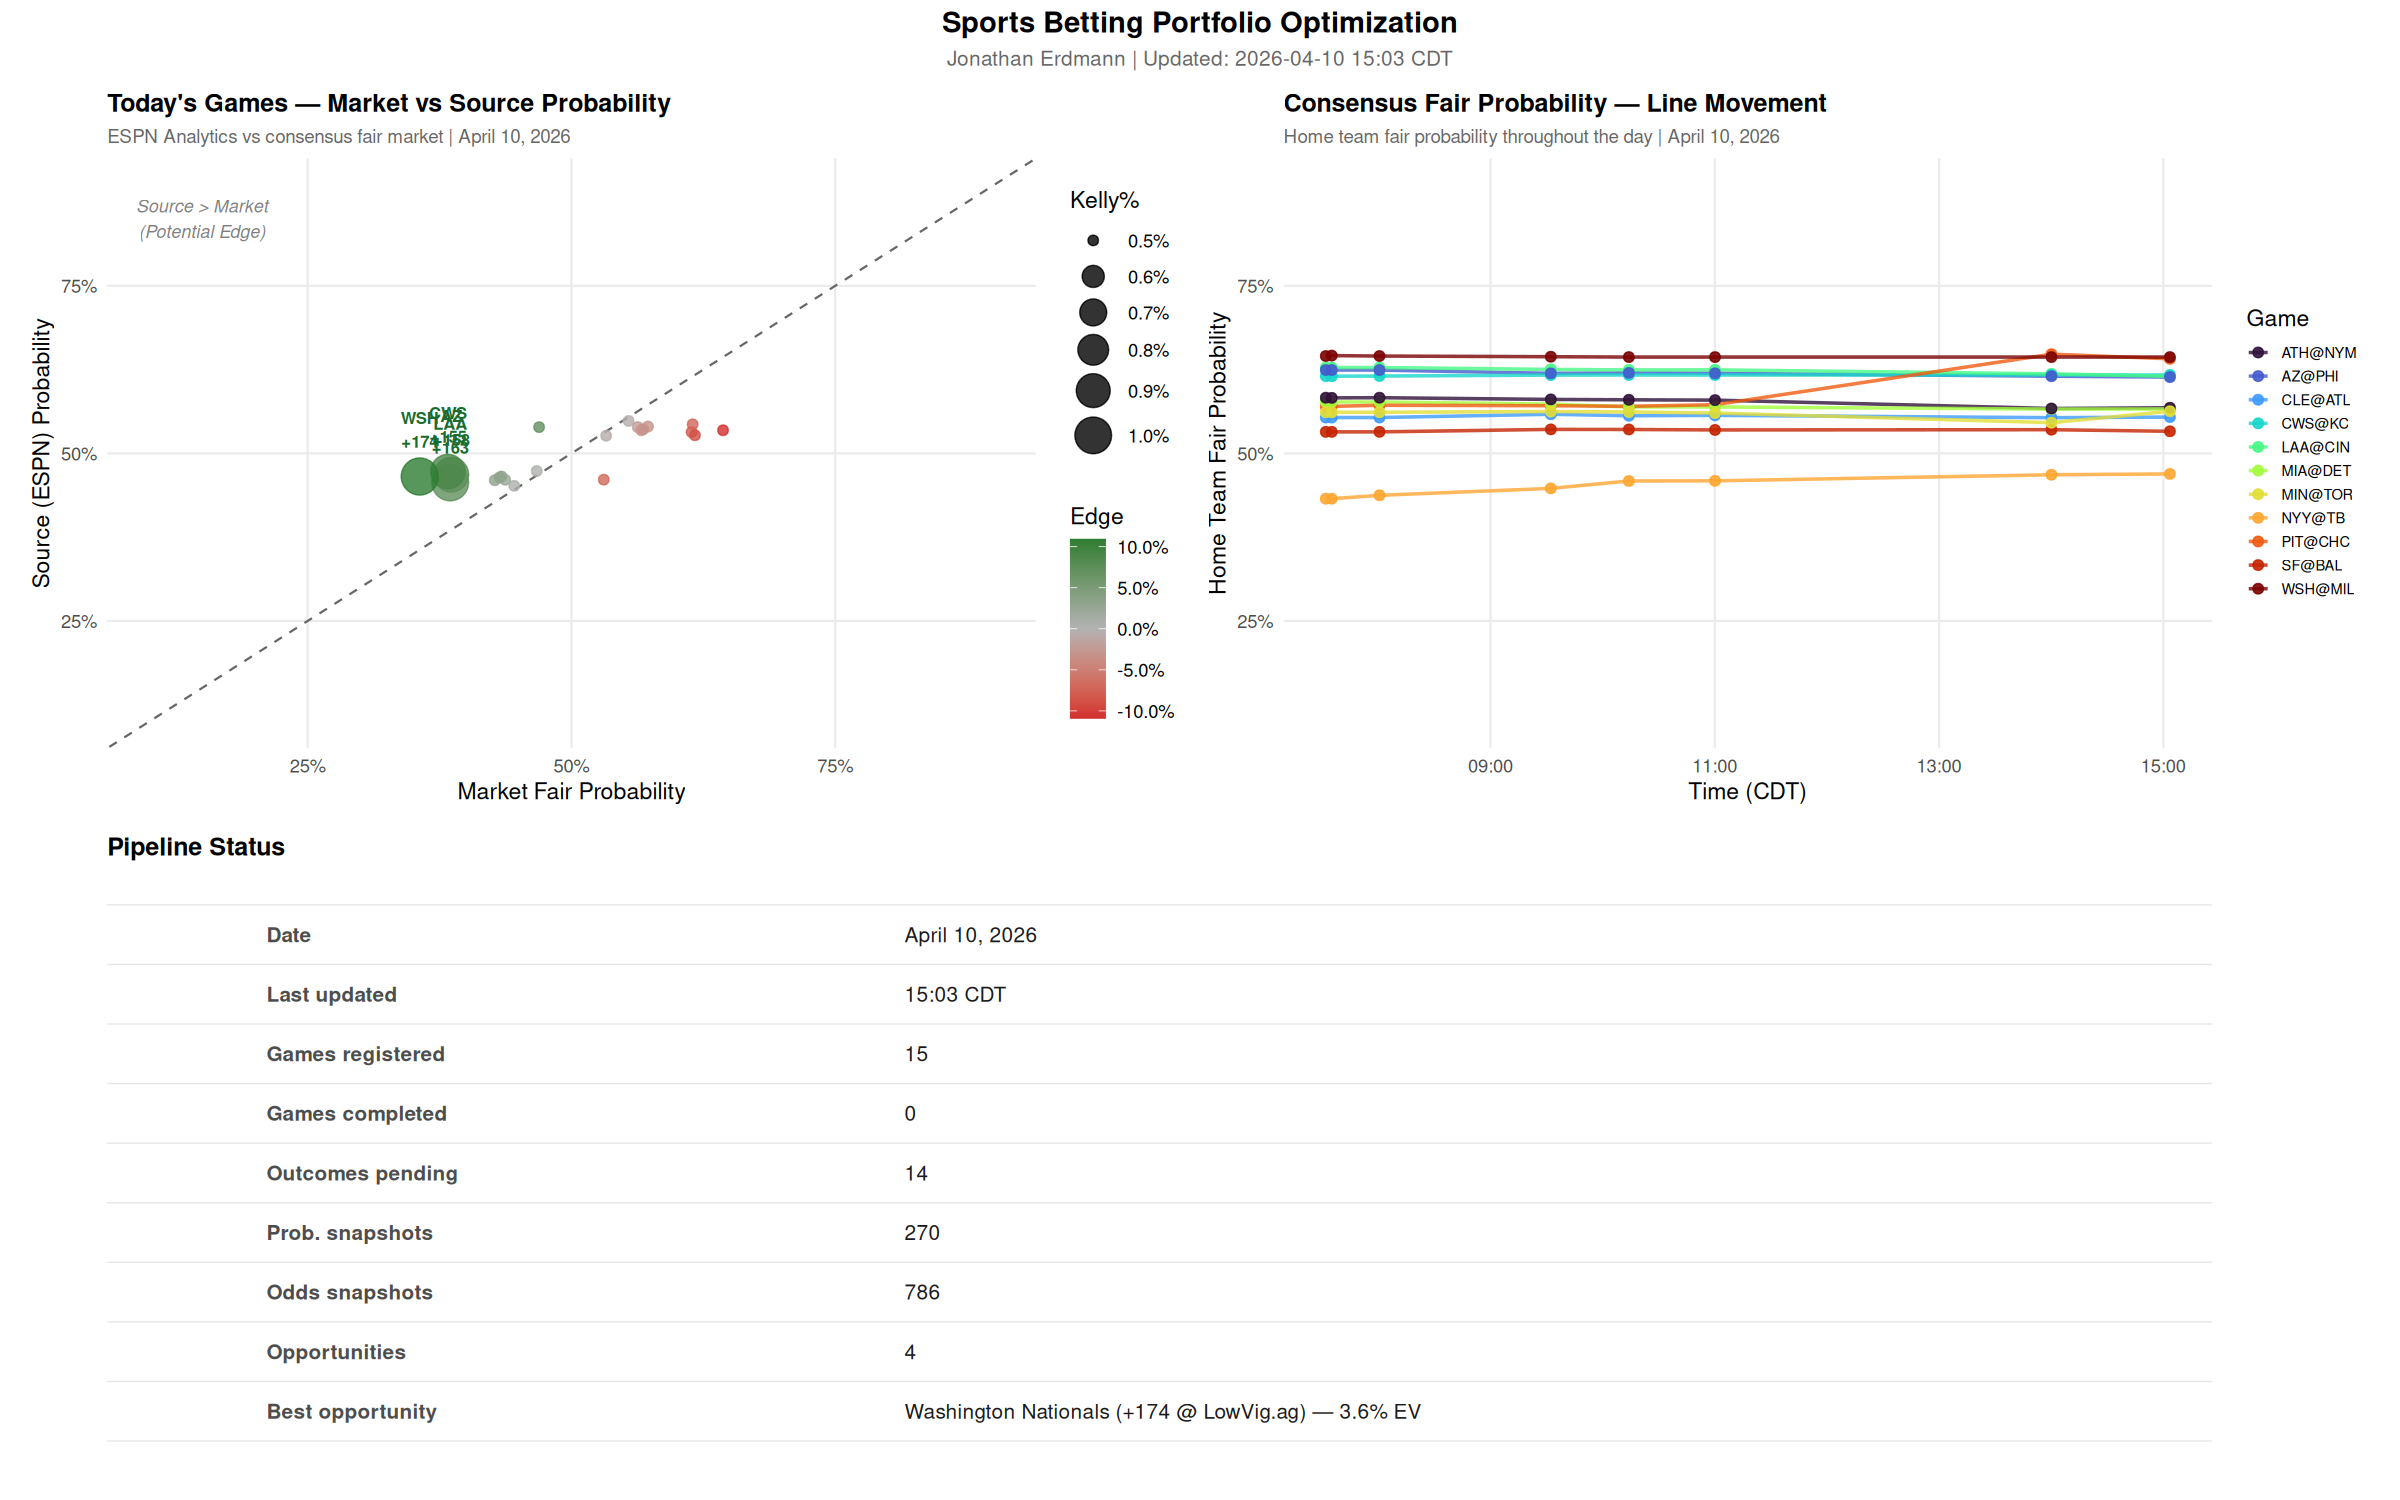
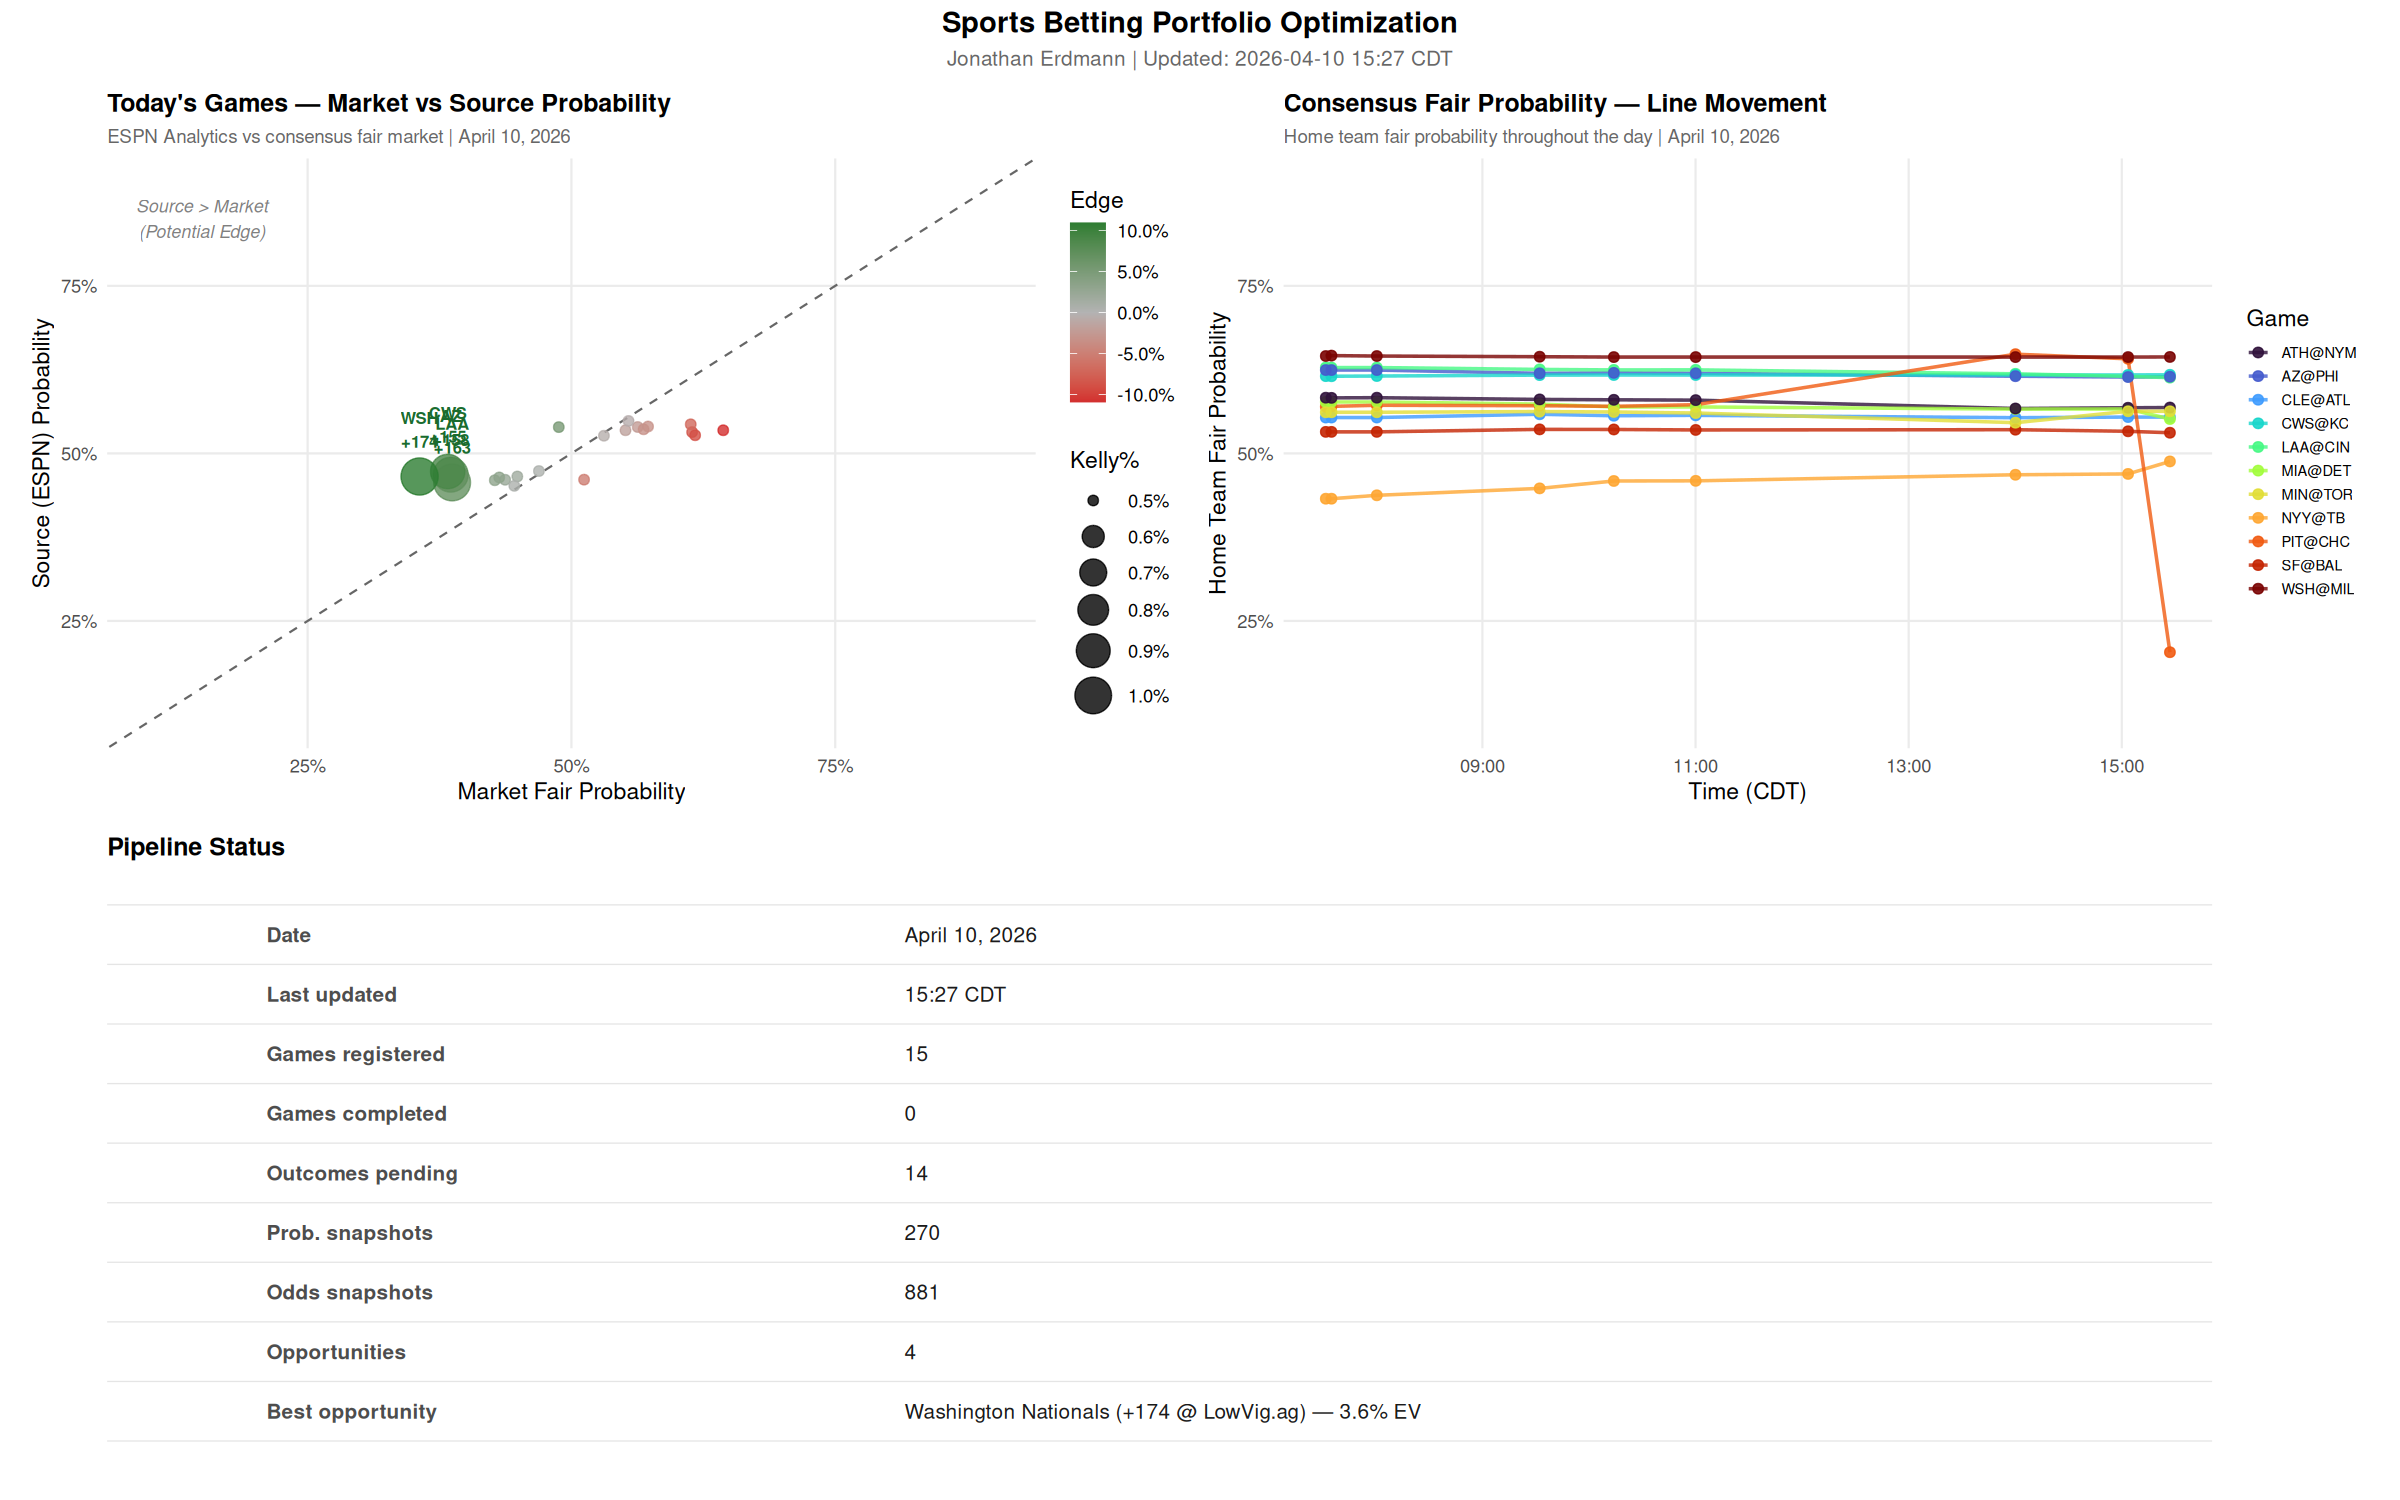
Update dashboard: 2026-04-10 15:27

diff --git a/projects/portfolio-optimization/dashboard.md b/projects/portfolio-optimization/dashboard.md
@@ -6,7 +6,7 @@ permalink: /projects/portfolio-optimization/dashboard/
 
 ## Daily Pipeline Dashboard
 
-**Last updated:** April 10, 2026 15:03 CDT
+**Last updated:** April 10, 2026 15:27 CDT
 
 ---
 
